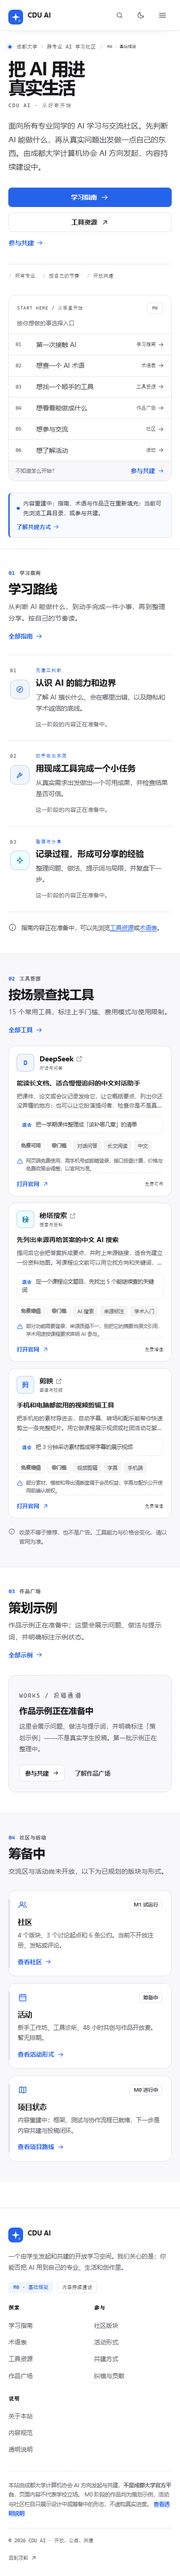
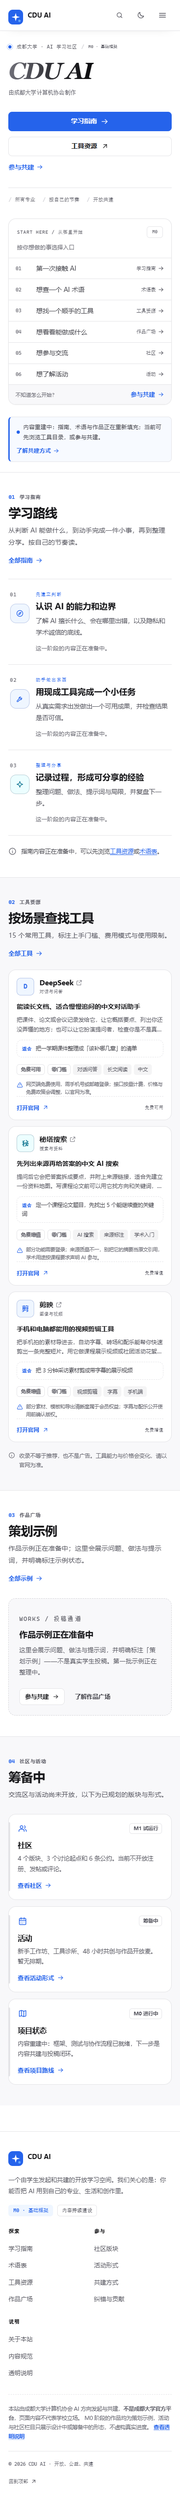
fix: 按反馈精简首页 Hero 并改为 CDU AI 渐变品牌字

diff --git a/src/styles/home-v2.css b/src/styles/home-v2.css
@@ -49,35 +49,38 @@
 
 .home-hero__title {
   margin-top: 1.1rem;
-  font-size: clamp(2.8rem, 6vw, 4.4rem);
-  line-height: 1.06;
+  line-height: 0.95;
+}
+
+/* 品牌字：一点艺术感（衬线斜体）+ 左→右「灰黑到黑」渐变 */
+.home-hero__wordmark {
+  display: inline-block;
+  padding-right: 0.06em;
+  font-family: Georgia, 'Times New Roman', 'Songti SC', 'SimSun', serif;
+  font-style: italic;
+  font-weight: 700;
+  font-size: clamp(3.6rem, 8.6vw, 6.6rem);
+  line-height: 0.98;
   letter-spacing: -0.045em;
-  text-wrap: balance;
+  background: linear-gradient(90deg, #707079 0%, #333338 48%, #0b0b0d 100%);
+  -webkit-background-clip: text;
+  background-clip: text;
+  color: transparent;
+  -webkit-text-fill-color: transparent;
 }
 
-.home-hero__title-cn {
-  display: block;
-  color: var(--ink);
-  font-weight: 650;
+:root[data-theme='dark'] .home-hero__wordmark {
+  background: linear-gradient(90deg, #8d8d96 0%, #c9c9d0 50%, #fafafa 100%);
+  -webkit-background-clip: text;
+  background-clip: text;
 }
 
-.home-hero__title-en {
-  display: block;
-  margin-top: 0.9rem;
+.home-hero__byline {
+  margin-top: 0.8rem;
   color: var(--faint);
   font-family: var(--font-mono);
-  font-size: clamp(0.7rem, 1vw, 0.8rem);
-  font-weight: 500;
-  letter-spacing: 0.14em;
-  text-transform: uppercase;
-}
-
-.home-hero__lede {
-  max-width: 52ch;
-  margin-top: 1.4rem;
-  color: var(--ink-soft);
-  font-size: 1rem;
-  line-height: 1.85;
+  font-size: 0.72rem;
+  letter-spacing: 0.06em;
 }
 
 .home-hero__actions {
@@ -664,8 +667,8 @@
     padding-top: 1.6rem;
   }
 
-  .home-hero__title {
-    font-size: clamp(2.35rem, 9vw, 3rem);
+  .home-hero__wordmark {
+    font-size: clamp(3.1rem, 13vw, 4.4rem);
   }
 
   .home-hero__meta {

diff --git a/docs/DESIGN-REVIEW.md b/docs/DESIGN-REVIEW.md
@@ -42,7 +42,7 @@
 
 **一句话**：把首页做成一份有编辑判断的学习索引：大字号中文主张、编号分区、细线分隔，克制但有个性。
 
-- **排版**：Hero 7/5 不对称网格；中文主张用 `clamp(2.8rem, 6vw, 4.4rem)`，紧字距、`text-wrap: balance`；品牌名退为等宽小字。分区标题加 `01 / 02 / 03` 编号与细线。
+- **排版**：Hero 7/5 不对称网格；主标题为品牌字 `CDU AI`（衬线斜体 + 左→右「灰黑到黑」渐变，深色主题为灰到亮），上方一行社区 / 阶段元信息，下方一行小字「由成都大学计算机协会制作」；不再使用中文主张大标题与介绍段落。分区标题加 `01 / 02 / 03` 编号与细线。
 - **色彩**：白底为主，蓝色只用于交互与编号；tint 仅保留在 02 工具带，深浅主题下 tint 拉大对比。
 - **组件**：学习路径改为**行式时间线**（编号 + 阶段 + 模块列表 + 单一箭头），不再是 3 张平等卡片；工具卡保持网格；作品空状态改为结构化「投稿入口」面板；社区三卡改为左侧强调线。
 - **动效**：从容（进入 420–560ms，hover 140–220ms，reveal 一次性 14px + 淡入）；只动 opacity/transform。
@@ -97,7 +97,7 @@
 
 实现范围：
 
-1. 新 Hero：编辑式主张标题 + 编号索引面板 + 内容重建状态条。
+1. 新 Hero：`CDU AI` 渐变品牌字（衬线斜体、左→右灰黑到黑）+ 编号索引面板 + 内容重建状态条；已按维护者反馈去掉「跨专业」、中文大标题与介绍段落，小字为「由成都大学计算机协会制作」。
 2. 分区：`01 学习路线 / 02 工具资源 / 03 作品广场 / 04 社区与活动`，编号 + 细线；修复 section 的 `aria-labelledby`。
 3. 学习路径改为行式时间线；作品空状态改为结构化投稿入口；社区三卡加左侧强调线。
 4. 首屏 CSS stagger 进入 + 滚动 reveal（渐进增强）+ hover/焦点细化。
@@ -122,3 +122,13 @@
 - [ ] 选择方向 A（推荐）或方向 B，或指出要混合的部分。
 - [ ] 确认进入/悬停/滚动节奏是否合适（偏快 / 偏慢）。
 - [ ] 确认首页样板后再进入阶段二全站推广。
+
+## 9. 修订记录
+
+### 2026-10-20 · 维护者反馈修订
+
+- 顶部元信息去掉「跨专业」，改为「成都大学 · AI 学习社区」。
+- 去掉中文黑体大标题「把 AI 用进真实生活」与底部介绍段落。
+- 主标题改为品牌字 `CDU AI`：衬线斜体（一点艺术感），颜色从左到右由灰黑渐变到黑；深色主题下为灰到亮，保证可读性。
+- 品牌字下方一行小字：「由成都大学计算机协会制作」。
+- 验收截图已按修订后版本更新。
